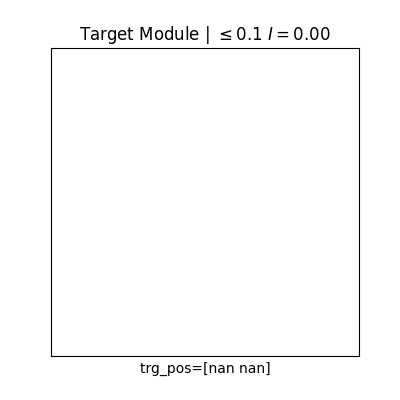
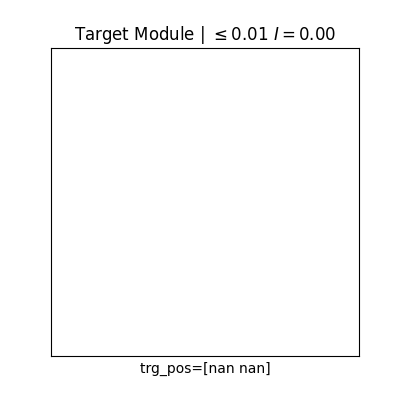
fast update

Changed region(s): [[0.18, 0.06, 0.84, 0.12]]

diff --git a/src/dashboard/script.js b/src/dashboard/script.js
@@ -5,7 +5,7 @@ let imageCount = 7;
 let autoUpdate = false;
 let updateInterval = null;
 const MAX_RETRIES = 5; // Maximum number of retries for loading each image
-const REFRESH_INTERVAL = 400; // Interval for auto-refresh in milliseconds
+const REFRESH_INTERVAL = 800; // Interval for auto-refresh in milliseconds
 let loadedImages = []; // Array to hold successfully loaded images
 
 

diff --git a/src/envs_core.py b/src/envs_core.py
@@ -300,9 +300,18 @@ def make_room(name: str="square", thickness: float=1.,
 class AgentBody:
 
     def __init__(self, position: np.ndarray = None,
+                 bounds: list=[0, 1, 0, 1],
                  **kwargs):
+
+        self.bounds = bounds
         self.radius = kwargs.get("radius", 0.05)
-        self.position = position if position is not None else self._random_position()
+
+        self._position = None
+        if np.all(position != None):
+            self.position = position
+        else:
+            self.set_position()
+
         self.prev_position = self.position.copy()
         self.velocity = np.zeros(2).astype(float)
         self.bounds = kwargs.get("bounds", [0, 1, 0, 1])
@@ -311,7 +320,7 @@ class AgentBody:
         self.verbose = kwargs.get("verbose", False)
         self.bounce_coefficient = kwargs.get("bounce_coefficient", 0.5)
 
-        self.visualize = kwargs.get("visualize", False)
+        self.trajectory = [[]]
 
     def __call__(self, velocity: np.ndarray,
                  collision: bool=False):
@@ -326,9 +335,7 @@ class AgentBody:
                             self.bounce_coefficient * \
                             1 * collision)
 
-        # truncated = not self._room.check_bounds(
-        #                         position=self.position,
-        #                         radius=self.radius*0.2)
+        self.trajectory[-1] += [self.position.copy()]
 
         return self.position.copy()#, collision, truncated
 
@@ -354,9 +361,10 @@ class AgentBody:
             ])
         self.position = position
 
+    def reset(self):
+        self.trajectory += [[]]
 
-    def render(self, ax: plt.Axes=None,
-               velocity: np.ndarray=None):
+    def render(self, ax: plt.Axes=None):
 
         """
         Plot the agent in the room
@@ -371,22 +379,24 @@ class AgentBody:
             Default is None.
         """
 
-        if not self.visualize:
-            return
+        # trajectory
+        for traj in self.trajectory:
+            if len(traj) < 2:
+                continue
+            traj = np.array(traj)
+            ax.plot(traj[:, 0], traj[:, 1], "r-",
+                    alpha=0.2, lw=2)
 
-        # ax, fig = self._room.render(ax=ax, returning=ax is None)
-
+        # agent body
         ax.add_patch(Circle(self.prev_position, self.radius,
                             fc=self.color, ec='black'))
 
+        # velocity arrow
         displacement = self.position - self.prev_position
         ax.arrow(self.prev_position[0], self.prev_position[1],
                  displacement[0], displacement[1],
                  head_width=0.02, head_length=0.02,
                  fc='black', ec='black')
-
-        if fig is not None:
-            fig.canvas.draw()
 
 
 class Zombie:
@@ -436,10 +446,16 @@ class RewardObj:
                  radius: float=0.05,
                  fetching: str="probabilistic"):
 
-        self._position = position
         self._radius = radius
         self._fetching = fetching
         self._bounds = bounds
+
+        self._position = None
+        if np.all(position != None):
+            self._position = position
+        else:
+            self.set_position()
+
         self._count = 0
 
     def __repr__(self):
@@ -540,6 +556,7 @@ class Environment:
             self.reward_obj.set_position()
         elif self.rw_event == "move agent":
             self.agent.set_position()
+            self.agent.reset()
         elif self.rw_event == "move both":
             self.agent.set_position()
             self.reward_obj.set_position()
@@ -555,15 +572,15 @@ class Environment:
 
     def render(self, ax: plt.Axes=None):
 
-        if not self.visualize:
-            return
+        # if not self.visualize:
+        #     return
 
-        ax, fig = self.room.render(ax=ax, returning=ax is None)
+        self.room.render(ax=ax, returning=ax is None)
         self.agent.render(ax=ax)
         self.reward_obj.render(ax=ax)
 
-        if fig is not None:
-            fig.canvas.draw()
+        # if fig is not None:
+        #     fig.canvas.draw()
 
 
 """ UTILS """

diff --git a/src/run_core.py b/src/run_core.py
@@ -166,7 +166,8 @@ def _initialize(sim_settings: dict = sim_settings,
                         clip_min=0.09,
                         threshold=model_params["threshold"],
                         rec_threshold=0.01,
-                        num_neighbors=8, trace_tau=0.1,
+                        num_neighbors=8,
+                        trace_tau=0.1,
                         xfilter=xfilter, name="2D")
 
     # plotter
@@ -202,7 +203,7 @@ def _initialize(sim_settings: dict = sim_settings,
     trg_module = mod.TargetModule(pcnn=pcnn2D,
                                   circuits=circuits,
                                   speed=SPEED,
-                                  threshold=0.1,
+                                  threshold=0.01,
                                   visualize=rendering,
                                   number=1)
 
@@ -232,7 +233,7 @@ def _initialize(sim_settings: dict = sim_settings,
     room = ev.make_room(name=ROOM, thickness=4.,
                         bounds=BOUNDS,
                         visualize=rendering)
-    pcnn2D_plotter.add_element(element=room)
+    # pcnn2D_plotter.add_element(element=room)
 
     agent_body = ev.AgentBody(
                     position=sim_settings["init_position"],
@@ -249,7 +250,7 @@ def _initialize(sim_settings: dict = sim_settings,
                          rw_event=sim_settings["rw_event"],
                          visualize=False)
 
-    pcnn2D_plotter.add_element(element=reward_obj)
+    pcnn2D_plotter.add_element(element=env)
 
     velocity = np.zeros(2)
     observation = {
@@ -353,6 +354,19 @@ def main(sim_settings=sim_settings,
                             t=t, velocity=velocity)
 
     return brain
+
+
+def plot_update(fig, ax, env, reward_obj,
+                trajectory, t, velocity):
+
+    ax.clear()
+
+    #
+    env.render(ax=ax)
+    reward_obj.render(ax=ax)
+    fig.canvas.draw()
+
+    plt.pause(0.001)
 
 
 class Simulation:
@@ -497,19 +511,6 @@ class Simulation:
         self.__init__(sim_settings=self.sim_settings,
                       agent_settings=self.agent_settings)
         logger(f"%% reset [seed={seed}] %%")
-
-
-def plot_update(fig, ax, env, reward_obj,
-                trajectory, t, velocity):
-
-    ax.clear()
-
-    #
-    env.render(ax=ax)
-    reward_obj.render(ax=ax)
-    fig.canvas.draw()
-
-    plt.pause(0.001)
 
 
 def run_analysis(N: int=5, duration: int=1000):
@@ -683,8 +684,9 @@ def loop_main(sim_settings: dict,
         model_params = {
             "bnd_threshold": 0.2,
             "bnd_tau": 1.,
-            "threshold": 0.5,
-            "rep_threshold": 0.5,
+            "threshold": 0.2,
+            'action_delay': 2,
+            'max_depth': 10,
             "w1": -1.,
             "w2": 0.2,
             "w3": -0.5,

diff --git a/src/evolution.py b/src/evolution.py
@@ -22,15 +22,15 @@ edit_logger_mod(level=-1, is_debugging=False, is_warning=False)
 logger = setup_logger(name="EVO", level=2,
                       is_debugging=True, is_warning=True)
 
-_bounds = np.array([0., 2., 0., 2.])
+_bounds = np.array([0., 1., 0., 1.])
 sim_settings = {
-    "bounds": np.array([0., 2., 0., 2.]),
-    "speed": 0.03,
-    "init_position": np.array([0.8, 0.2]),
+    "bounds": _bounds,
+    "speed": 0.01,
+    "init_position": None,
     "rw_fetching": "deterministic",
-    "rw_event": "move reward",
-    "rw_position": np.array([0.5, 0.8]),
-    "rw_radius": 0.08,
+    "rw_event": "move agent",
+    "rw_position": None,
+    "rw_radius": 0.03,
     "rw_bounds": np.array([_bounds[0]+0.2, _bounds[1]-0.2,
                            _bounds[2]+0.2, _bounds[3]-0.2]),
     "plot_interval": 8,
@@ -232,22 +232,22 @@ class Env:
 # >>> no ftg weight
 FIXED_PARAMETERS = {
     # 'w4': 0.,
-    'bnd_threshold': 0.2,
+    # 'bnd_threshold': 0.2,
 }
 
 
 # Define the genome as a dict of parameters
 PARAMETERS = {
-    'bnd_threshold': lambda: round(random.uniform(0.01, 1.0), 2),
+    'bnd_threshold': lambda: round(random.uniform(0.01, 0.2), 2),
     'bnd_tau': lambda: random.randint(1, 15),
-    'threshold': lambda: round(random.uniform(0.01, 0.3), 2),
+    'threshold': lambda: round(random.uniform(0.01, 0.4), 2),
     'action_delay': lambda : round(random.uniform(1., 10.), 1),
     'max_depth': lambda: random.randint(1, 15),
-    'w1': lambda: round(random.uniform(-2.0, 0.0), 2),
-    'w2': lambda: round(random.uniform(-2.0, 2.0), 2),
-    'w3': lambda: round(random.uniform(-2.0, 2.0), 2),
-    'w4': lambda: round(random.uniform(-2.0, 2.0), 2),
-    'w5': lambda: round(random.uniform(-2.0, 2.0), 2),
+    'w1': lambda: round(random.uniform(-3.0, 0.0), 1),
+    'w2': lambda: round(random.uniform(-3.0, 2.0), 1),
+    'w3': lambda: round(random.uniform(-3.0, 2.0), 1),
+    'w4': lambda: round(random.uniform(-3.0, 2.0), 1),
+    'w5': lambda: round(random.uniform(-3.0, 2.0), 1),
 }
 
 PARAMETERS_MLP = {
@@ -284,7 +284,7 @@ if __name__ == "__main__" :
 
     # ---| Setup |---
 
-    fitness_weights = (1., 1.)
+    fitness_weights = (1., 0.3)
     num_samples = 2
     USE_MLP = False
     eval_func = eval_func_II

diff --git a/src/mod_core.py b/src/mod_core.py
@@ -233,7 +233,7 @@ class Modulation(ABC):
                             alpha_nodes=0.8,
                             cmap="Greens",
                             customize=True,
-                            title=f"{self.leaky_var.name}")
+                            title=f"{self.leaky_var.name} | $w_{{max}}=${self.weights.max():.3f}")
 
         # if bounds is not None:
         #     self.ax.set_xlim(bounds[0], bounds[1]*1.2)
@@ -1303,7 +1303,7 @@ class ExperienceModule(ModuleClass):
             self.record = []
 
 
-class ExperienceModule1(ModuleClass):
+class ExperienceModule2(ModuleClass):
 
     """
     Input:
@@ -1359,7 +1359,7 @@ class ExperienceModule1(ModuleClass):
                     weights["output"].tolist())
             self.using_mlp = True
         else:
-            self.eval_network = Perceptron(weights=weights)
+            self.eval_network = OneLayerNetworkWrapper(weights=weights.tolist())
             self.using_mlp = False
 
         # internal directives

diff --git a/src/utils_core.py b/src/utils_core.py
@@ -182,11 +182,11 @@ class PlotPCNN:
                 element.render(ax=ax)
 
         # --- trajectory
-        if trajectory is not None:
-            ax.plot(trajectory[:, 0], trajectory[:, 1], 'r-',
-                          lw=0.5, alpha=0.5 if new_a is not None else 0.9)
-            ax.scatter(trajectory[-1, 0], trajectory[-1, 1],
-                        c='k', s=150, marker='x')
+        # if trajectory is not None:
+        #     ax.plot(trajectory[:, 0], trajectory[:, 1], 'r-',
+        #                   lw=0.5, alpha=0.5 if new_a is not None else 0.9)
+        #     ax.scatter(trajectory[-1, 0], trajectory[-1, 1],
+        #                 c='k', s=150, marker='x')
 
         # --- rollout
         if rollout is not None and len(rollout[0]) > 0:
